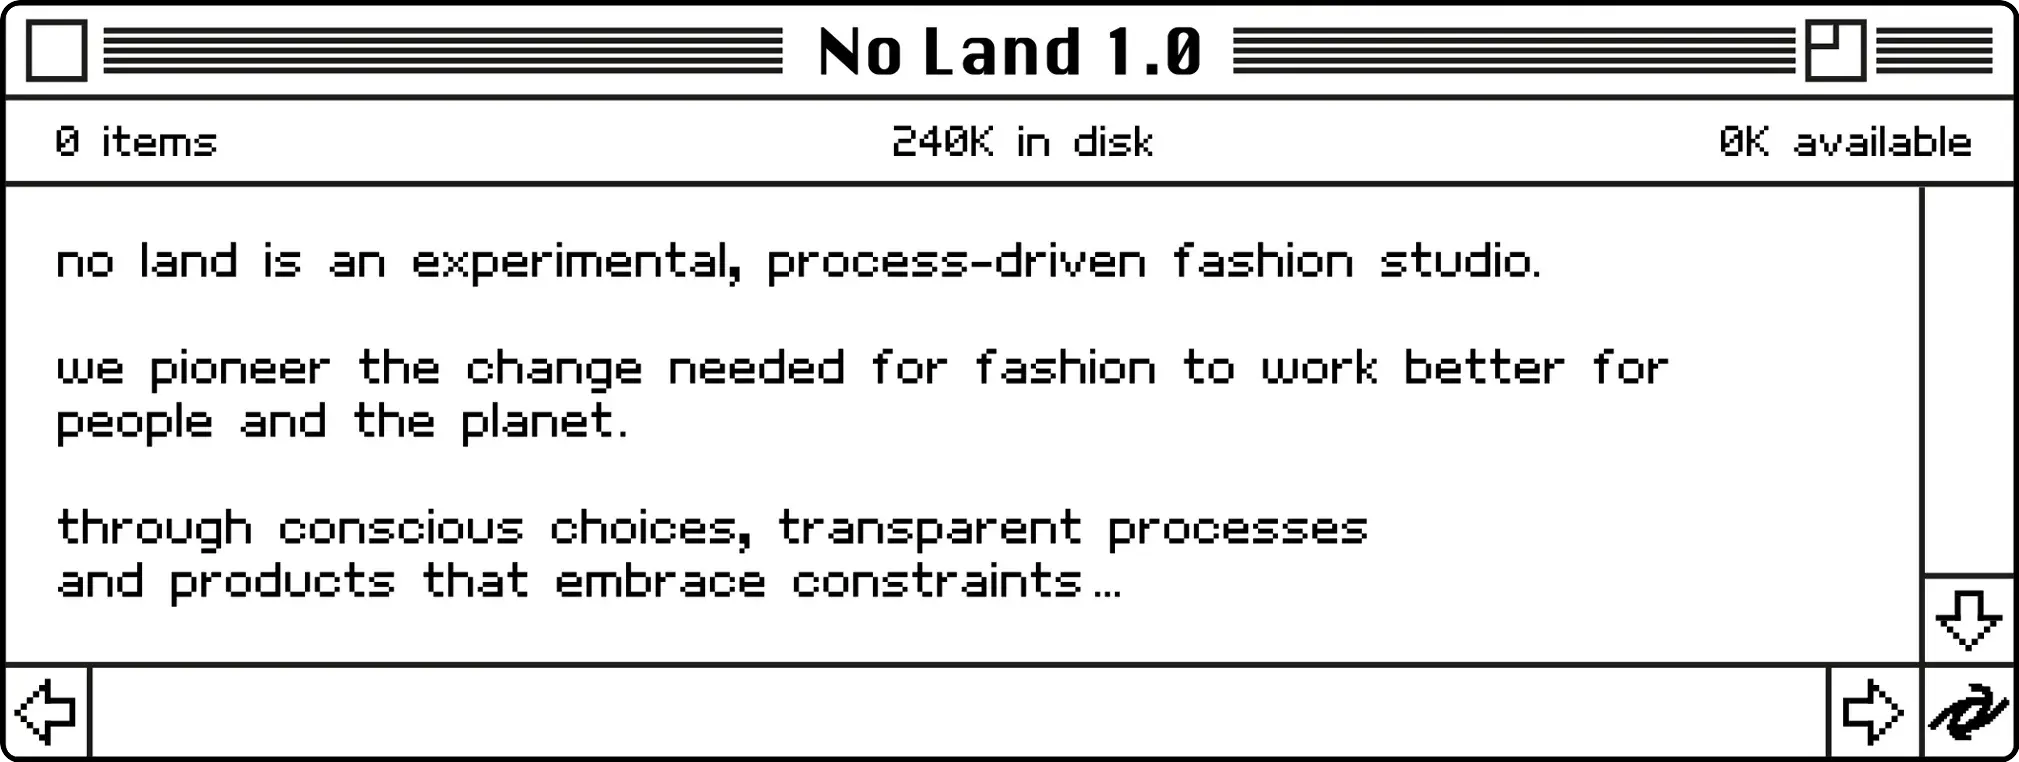
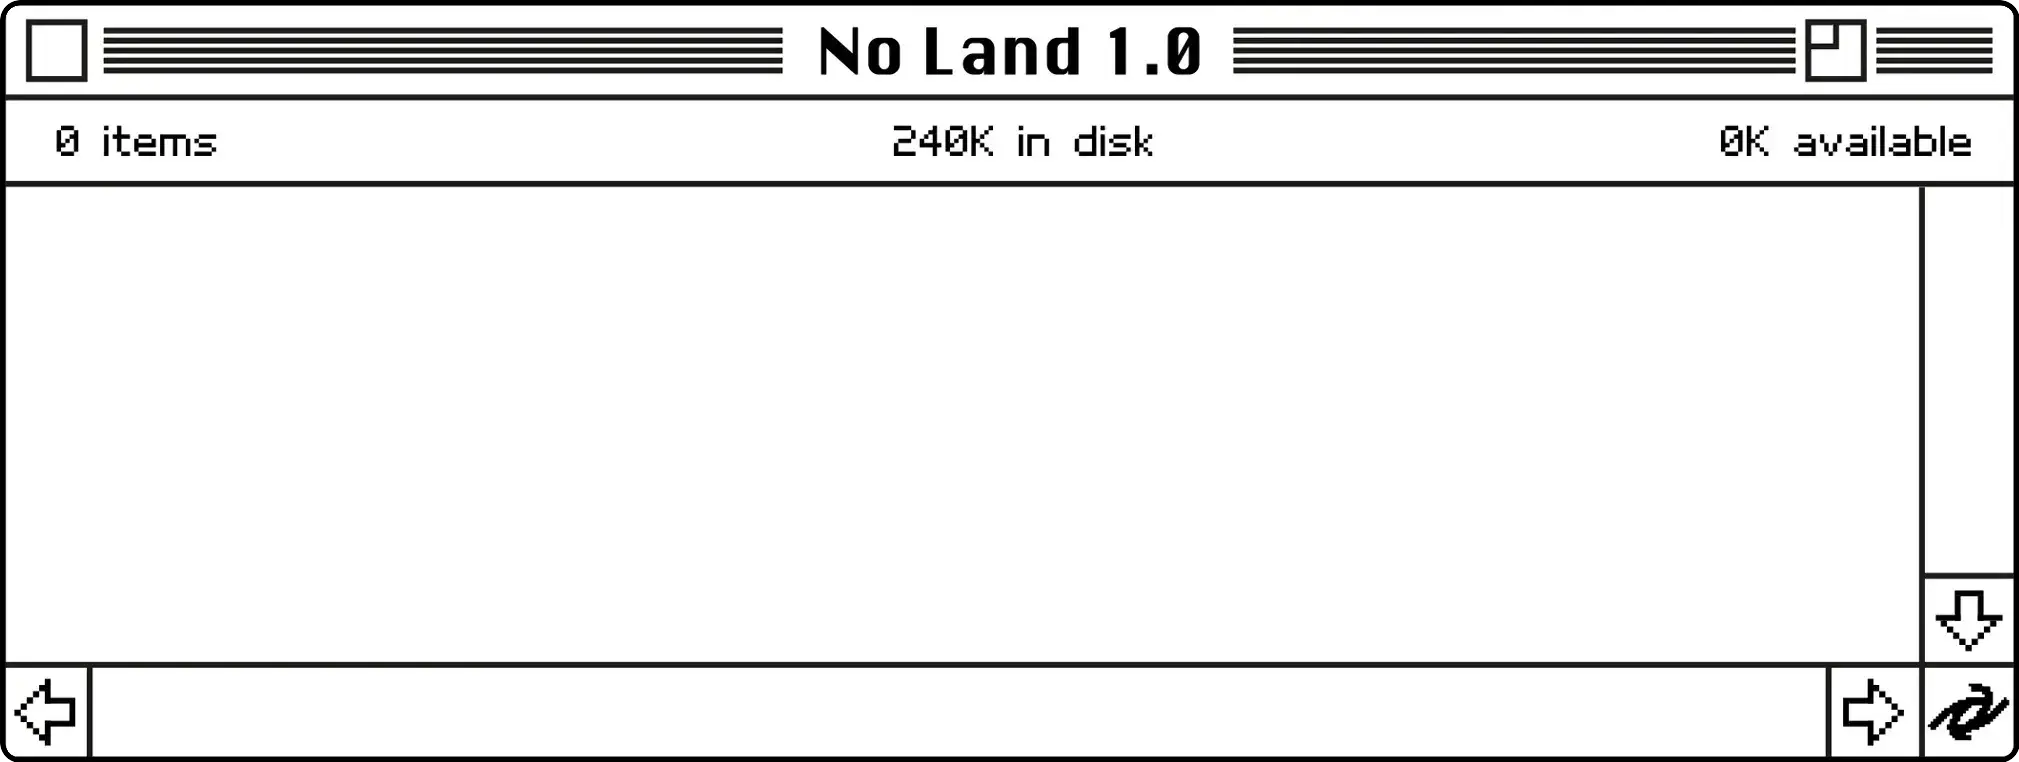
landing page

Changed region(s): [[0.0312, 0.664, 0.6865, 0.7848], [0.0312, 0.4528, 0.8425, 0.5735], [0.0312, 0.3018, 0.7801, 0.3622]]

diff --git a/assets/custom-email-signup.css b/assets/custom-email-signup.css
@@ -1,19 +1,24 @@
 #custom-signup-main .container{
-  position: absolute;
-  top: 50%;
-  left: 50%;
-  transform: translate(-50%, -50%);
+  margin-left: auto;
+  margin-right: auto;
+  position: relative;
+  margin-top: 35rem;
 }
 .logo{
   width: 100%;
-  z-index: 10;
+  z-index: 20;
   pointer-events: none;
 }
 .giphy-embed {
   margin-left: auto;
-  pointer-events: none;
   width: 8rem;
   height: 8rem;
+}
+ul.links{
+  list-style: none;
+  margin: 35rem 0 2.5rem 0;
+  padding: 0;
+  text-align: center;
 }
 .purple-blur {
   width: 80%;
@@ -25,10 +30,11 @@
   transform: translate(-50%, -50%);
   background-color: #AF8AF8;
   filter: blur(80px);
-  z-index: -1;
+  z-index: 0;
 }
 .col-12.flex {
   position: relative;
+  z-index: 0;
   display: flex;
   flex-direction: column;
   justify-content: center;
@@ -36,30 +42,91 @@
 }
 .window {
   position: absolute;
+  z-index: 2;
   left: 5%;
   width: 90%;
   max-width: 45rem;
-  cursor: move;
+} 
+.window .header {
+  position: absolute;
+  z-index: 10;
+  top: 0;
+  left: 0;
+  right: 0;
+  height: 8%;
+  display: block !important;
+  cursor:pointer;
+}
+#window2header {
+  height: 12%;
+}
+.main-row {
+  position: relative;
+  z-index: 2;
 }
 .relative {
   position: relative;
+  z-index: 0;
 }
-#draggable-window {
+.window>img {
+  position: relative;
+  z-index: 5;
+  width: 100%;
+}
+.window>video {
+  position: absolute;
+  width: 96%;
+  left: 0;
+  bottom: 7%;
+}
+#window {
   top: -30rem;
+}
+#window2 {
+  top: 30rem;
+}
+#text-window {
+  display: none;
+}
+#text-window-content {
+  position: absolute;
+  width: 88%;
+  left: 3%;
+  top: 20%;
+  z-index: 10;
+  font-family: chicago;
+}
+#text-window-content p {
+  font-family: inherit;
+  line-height: 1.3rem;
+}
+#terminal-content {
+  font-family: inherit;
+  white-space: pre-wrap;
 }
 
 @media screen and (min-width: 576px) {
   .purple-blur {
     height: 43.2rem;
   }
+  #text-window2 {
+    display: none;
+  }
+  #text-window {
+    display: block;
+  }
+  #text-window-content {
+    top: 27%;
+  }
 }
 @media screen and (min-width: 768px) {
-  #draggable-window {
+  #window {
     top: -20rem;
     left: 0;
   }
-  #draggable-window2 {
+  #window2 {
     left: 0;
+    top: 45rem;
   }
   .giphy-embed {
     width: 13rem;
@@ -69,11 +136,20 @@
     width: 40%;
     height: 28.8rem;
   }
+  #custom-signup-main .container{
+    margin-top: 20rem;
+  }
+  ul.links{
+    margin: 20rem 0 2.5rem 0;
+  }
 }
 @media screen and (min-width: 992px) {
-  #draggable-window {
+  #window {
     top: -15rem;
     left: 0;
+  }
+  #window2 {
+    top: 55rem;
   }
   .giphy-embed {
     width: 17rem;
@@ -82,9 +158,12 @@
   .purple-blur {
     height: 38.4rem;
   }
+  #custom-signup-main .container{
+    margin-top: 16rem;
+  }
 }
 @media screen and (min-width: 1200px) {
-  #draggable-window {
+  #window {
     top: -10rem;
     left: 0;
   }
@@ -95,18 +174,9 @@
   .purple-blur {
     height: 45.6rem;
   }
-}
-.window>img {
-  width: 100%;
-}
-.window>video {
-  position: absolute;
-  width: 94.9%;
-  left: 2.5px;
-  bottom: 7%;
-}
-#text-window {
-  display: none;
+  #custom-signup-main .container{
+    margin-top: 14rem;
+  }
 }
 .text-container{
   font-size: 3rem;
@@ -120,11 +190,10 @@
     font-size: 5rem;
   }
 }
-ul.links{
-  list-style: none;
-  margin: 20rem 0 2.5rem 0;
-  padding: 0;
-  text-align: center;
+.links-container {
+  display: flex;
+  flex-wrap: wrap;
+  justify-content: center;
 }
 ul.links li{
   display: inline-block;

diff --git a/assets/landingpage.js b/assets/landingpage.js
@@ -1,5 +1,5 @@
-dragElement(document.getElementById("draggable-window"));
-dragElement(document.getElementById("draggable-window2"))
+dragElement(document.getElementById("window"));
+dragElement(document.getElementById("window2"))
 
 function dragElement(elmnt) {
     var pos1 = 0, pos2 = 0, pos3 = 0, pos4 = 0;
@@ -42,9 +42,23 @@ function dragElement(elmnt) {
     }
 }
 
+function printLetterByLetter(destination, message, speed){
+    var i = 0;
+    var interval = setInterval(function(){
+        document.getElementById(destination).innerHTML += message.charAt(i);
+        i++;
+        if (i > message.length){
+            clearInterval(interval);
+        }
+    }, speed);
+}
+
 window.addEventListener("load", ()=>{
     setTimeout(() => {
-        document.getElementById("loading-window").style.display = "none"
-        document.getElementById("text-window").style.display = "inline"
-    }, 3000)
+        document.getElementById("terminal-loading").style.display = "none"
+        document.getElementById("terminal-content").style.display = "block"
+        setTimeout(()=>{
+            printLetterByLetter("terminal-content", document.getElementById("terminal-noscript").innerHTML,70)
+        },100)
+    }, 1500)
 })
